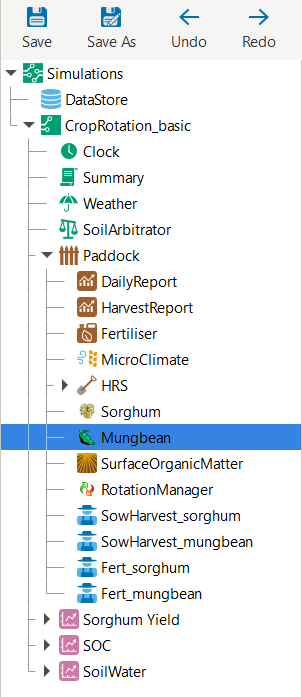
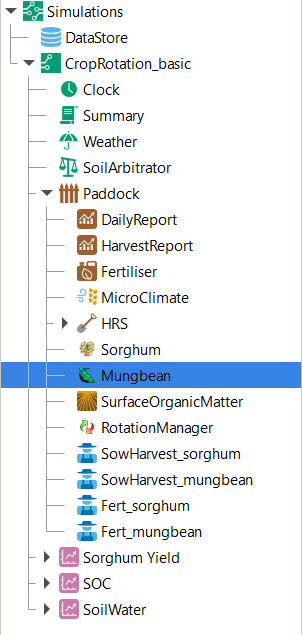
smaller mungbean model screenshot

diff --git a/docs/crop rotations and sequences.rst b/docs/crop rotations and sequences.rst
@@ -365,7 +365,7 @@ The resulting simulation tree should now look similar to the following:
 
 .. figure:: _static/APSIMscreenshot_AddedMungbeanModel.png
    :alt: AddedMungbeanModel
-   :width: 50%
+   :width: 35%
 
    Simulation tree with added *Mungbean* crop model.
 
@@ -387,7 +387,8 @@ The final *manager* script ``SowHarvest_mungbean`` should look similar to the fo
 
 
 Next, we select the *manager* script ``Fert_sorghum``.
-We see 
+Here, we can see that all values are already as we intend them to be and no further changes are needed.
+Instead, when selecting  ``Fert_mungbean``, we see that the target crop is still blank and we have to select *Mungbean* from the drop-down list.
 
 
 
